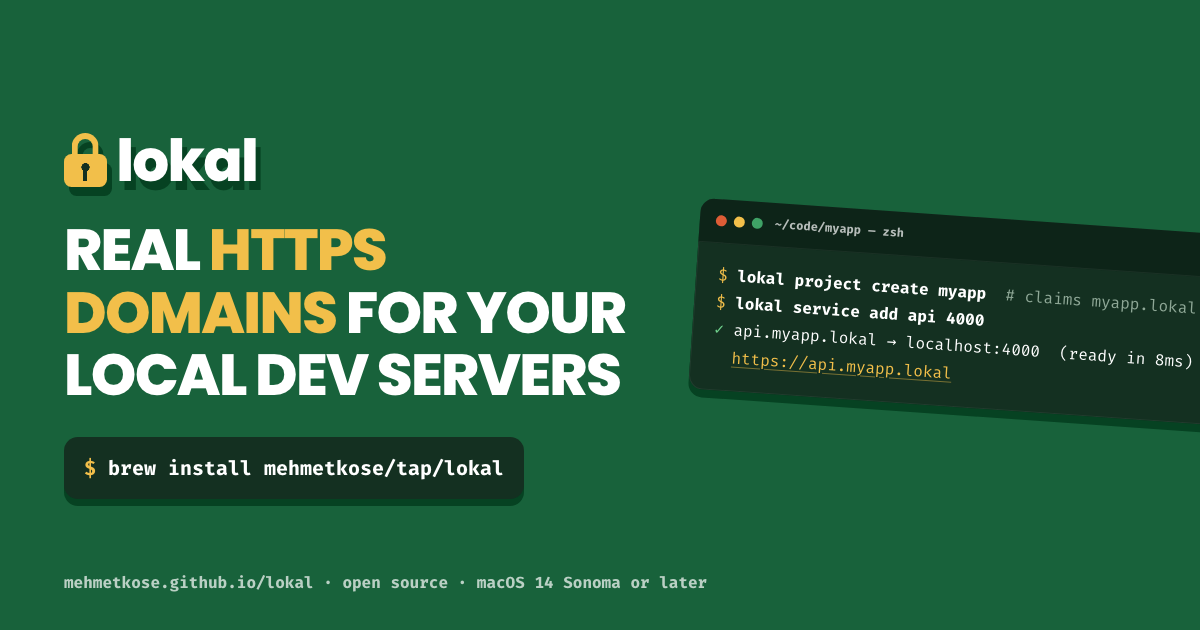
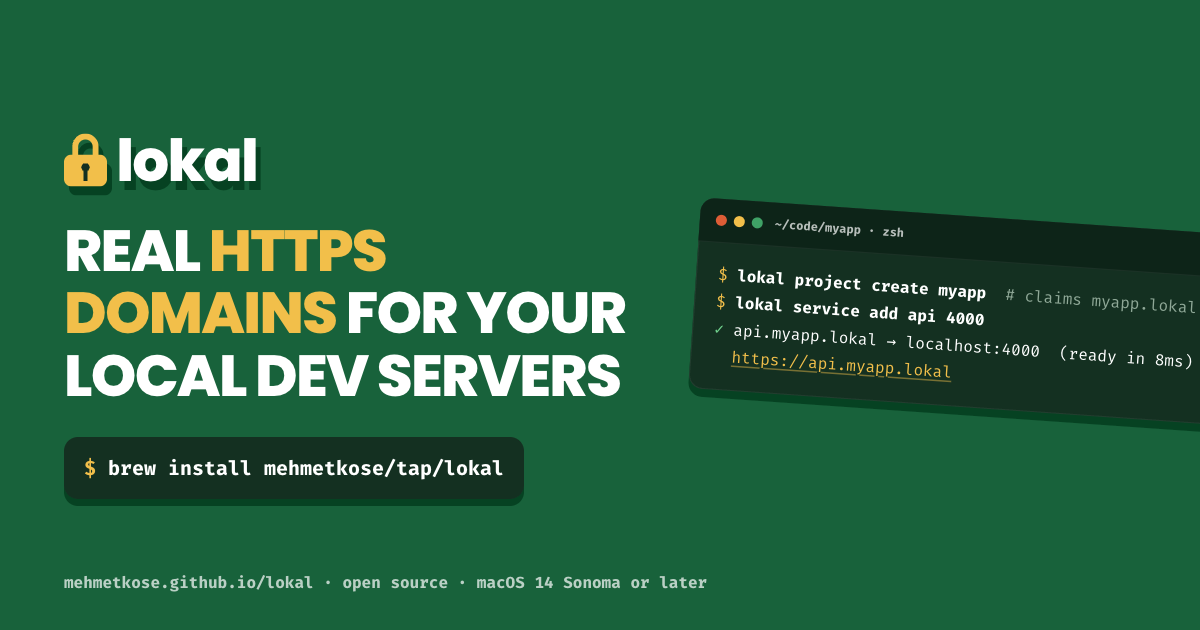
Website: no em dashes in titles
Page titles use "·" (Quick start · lokal), the home page title uses a colon,
and the terminal window titles read "~/code/myapp · zsh". og.png is retaken
from /brand to match.

diff --git a/website/theme/data/site.ts b/website/theme/data/site.ts
@@ -12,7 +12,7 @@ const repo = 'https://github.com/mehmetkose/lokal';
 
 export const site = {
   name: 'lokal',
-  title: 'lokal — real HTTPS domains for your local dev servers',
+  title: 'lokal: real HTTPS domains for your local dev servers',
   tagline: 'Real HTTPS domains for your local dev servers, on macOS and Linux.',
   description:
     'lokal gives every service you run in development its own https://<name>.lokal URL with a certificate your browser, curl, Node and Python trust. Set it up once; adding a service takes milliseconds and never asks for a password.',

diff --git a/website/theme/pages/Brand.tsx b/website/theme/pages/Brand.tsx
@@ -25,7 +25,7 @@ export function Brand() {
           </p>
         </div>
         <div className="og__visual">
-          <TerminalWindow lines={heroSession.slice(1, 5)} title="~/code/myapp — zsh" tilt={4} copy={false} />
+          <TerminalWindow lines={heroSession.slice(1, 5)} title="~/code/myapp · zsh" tilt={4} copy={false} />
         </div>
         <p className="og__foot">{`mehmetkose.github.io/lokal · open source · ${site.requires}`}</p>
       </div>

diff --git a/website/theme/components/layout/Seo.tsx b/website/theme/components/layout/Seo.tsx
@@ -17,7 +17,7 @@ type Props = {
 
 export function Seo({ title, description = site.description, ogType = 'website', image = '/og.png', noindex = false }: Props) {
   const { page } = usePage();
-  const pageTitle = title ? `${title} — ${site.name}` : site.title;
+  const pageTitle = title ? `${title} · ${site.name}` : site.title;
   const canonical = absoluteUrl(page.routePath);
   const imageUrl = absoluteUrl(image);
   const cardTitle = title ?? site.title;

diff --git a/website/theme/components/home/Hero.tsx b/website/theme/components/home/Hero.tsx
@@ -72,7 +72,7 @@ export function Hero() {
               <BrowserBar url={url} className="hero__browser" key={url} />
             ))}
           </div>
-          <TerminalWindow lines={heroSession} title="~/code/myapp — zsh" tilt={3} className="hero__terminal" />
+          <TerminalWindow lines={heroSession} title="~/code/myapp · zsh" tilt={3} className="hero__terminal" />
         </div>
       </div>
       <TornEdge position="bottom" color="green" />

diff --git a/website/theme/components/sections/HowItWorks.tsx b/website/theme/components/sections/HowItWorks.tsx
@@ -45,7 +45,7 @@ export function HowItWorks() {
         </ol>
 
         <div className="how__session" data-reveal="">
-          <TerminalWindow lines={usageSession} title="~/code/shop — zsh" />
+          <TerminalWindow lines={usageSession} title="~/code/shop · zsh" />
         </div>
 
         <div className="how__cta" data-reveal="">
